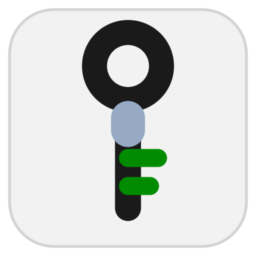
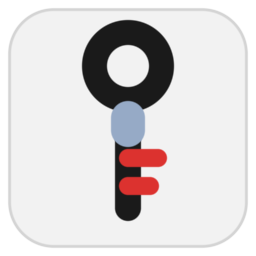
Accent: els red, one suite color (reversing the green4 decision)
ann's accent becomes the suite's shared red #DC322F everywhere the one accent
appears -- the entry caret, the key icon's bit, the update notice, the coverage
warning. Owner decision 2026-07-20, reversing the recorded green4 #008B00 choice
("els owns red"): the tools now read as one suite, with the same single accent
and the same one-flourish discipline. Errors also read red -- same hue, the
semantics carried by placement and wording, exactly as els itself lives with a
red caret beside red error text.

One deliberate exception: the catalog LED's idle state moves from the accent to
the semantic good-green #3C8A50. It is a status light, not a flourish, and an
accent-red idle would be indistinguishable from the LED's own red priority-scan
state. The tri-state stays: good-green idle, red priority scan, dark-yellow
background walk.

Icons regenerated (the key keeps its shape; the bit goes red). DESIGN.md 9.1
amended in place, marked as a reversal like the tray. Suite 164/164.

Changed region(s): [[0.4375, 0.5625, 0.6562, 0.6562], [0.4375, 0.6875, 0.625, 0.7812]]

diff --git a/docs/DESIGN.md b/docs/DESIGN.md
@@ -718,9 +718,13 @@ One fixed, polished look. No themes, no skins, no layout options.
 > `annplat::own_window` — owned toplevels get none, while keeping the normal
 > caption the in-icon menu needs; the tray is ann's presence); the look matches **els** (calm grey `#F2F2F2` page,
 > near-black ink, flat white fields with hairlines, ONE accent flourish — the
-> caret in ann's own green4 `#008B00` (els owns red `#DC322F`; one color for
-> ALL accent uses — its ~4.4:1 page contrast matches els red's class; errors
-> keep red as semantics) — `#D6E2F2` selection, Segoe UI chrome) instead of the
+> caret in **the suite's shared red `#DC322F`** (owner decision 2026-07-20,
+> **reversing** the earlier green4 `#008B00` choice: the tools now read as one
+> suite, same single accent everywhere; one color for ALL accent uses; errors
+> also read red — same hue, semantics carried by placement and wording, as in
+> els itself; the catalog LED's *idle* state moves to the semantic good-green
+> `#3C8A50`, since a red idle would collide with the LED's own red
+> priority-scan state) — `#D6E2F2` selection, Segoe UI chrome) instead of the
 > dark theme; the
 > result **list rows use a compact font** (name 8 pt / subtitle 5 pt — the panel
 > and dialogs keep 12/9); the list keeps the **first 50 results behind an x-row
@@ -729,9 +733,10 @@ One fixed, polished look. No themes, no skins, no layout options.
 > default layout, 12p arrows, els's greys, auto-hidden while everything fits;
 > wheel = 3 rows per notch, keyboard selection drags the window along); there
 > is a **real docked status bar** (els-style: hairline rule) carrying: a flat
-> tri-state **catalog LED** leftmost (green4 idle · els-red while the priority
-> scan runs · sober dark-yellow `#B8860B` while the throttled background walk
-> runs — fed by the indexer's live `phase` field in its stats), then the left
+> tri-state **catalog LED** leftmost (semantic good-green `#3C8A50` idle ·
+> red while the priority scan runs · sober dark-yellow `#B8860B` while the
+> throttled background walk runs — fed by the indexer's live `phase` field in
+> its stats), then the left
 > cell = transient message / **abbreviated catalog facts** ("A 97 · F 17,366 ·
 > 15:07 · cap · E2") whose full sentences live in **tooltips** (els's tip
 > machinery ported verbatim: 550 ms delay, dark tip, wrapping, window-clamped)
